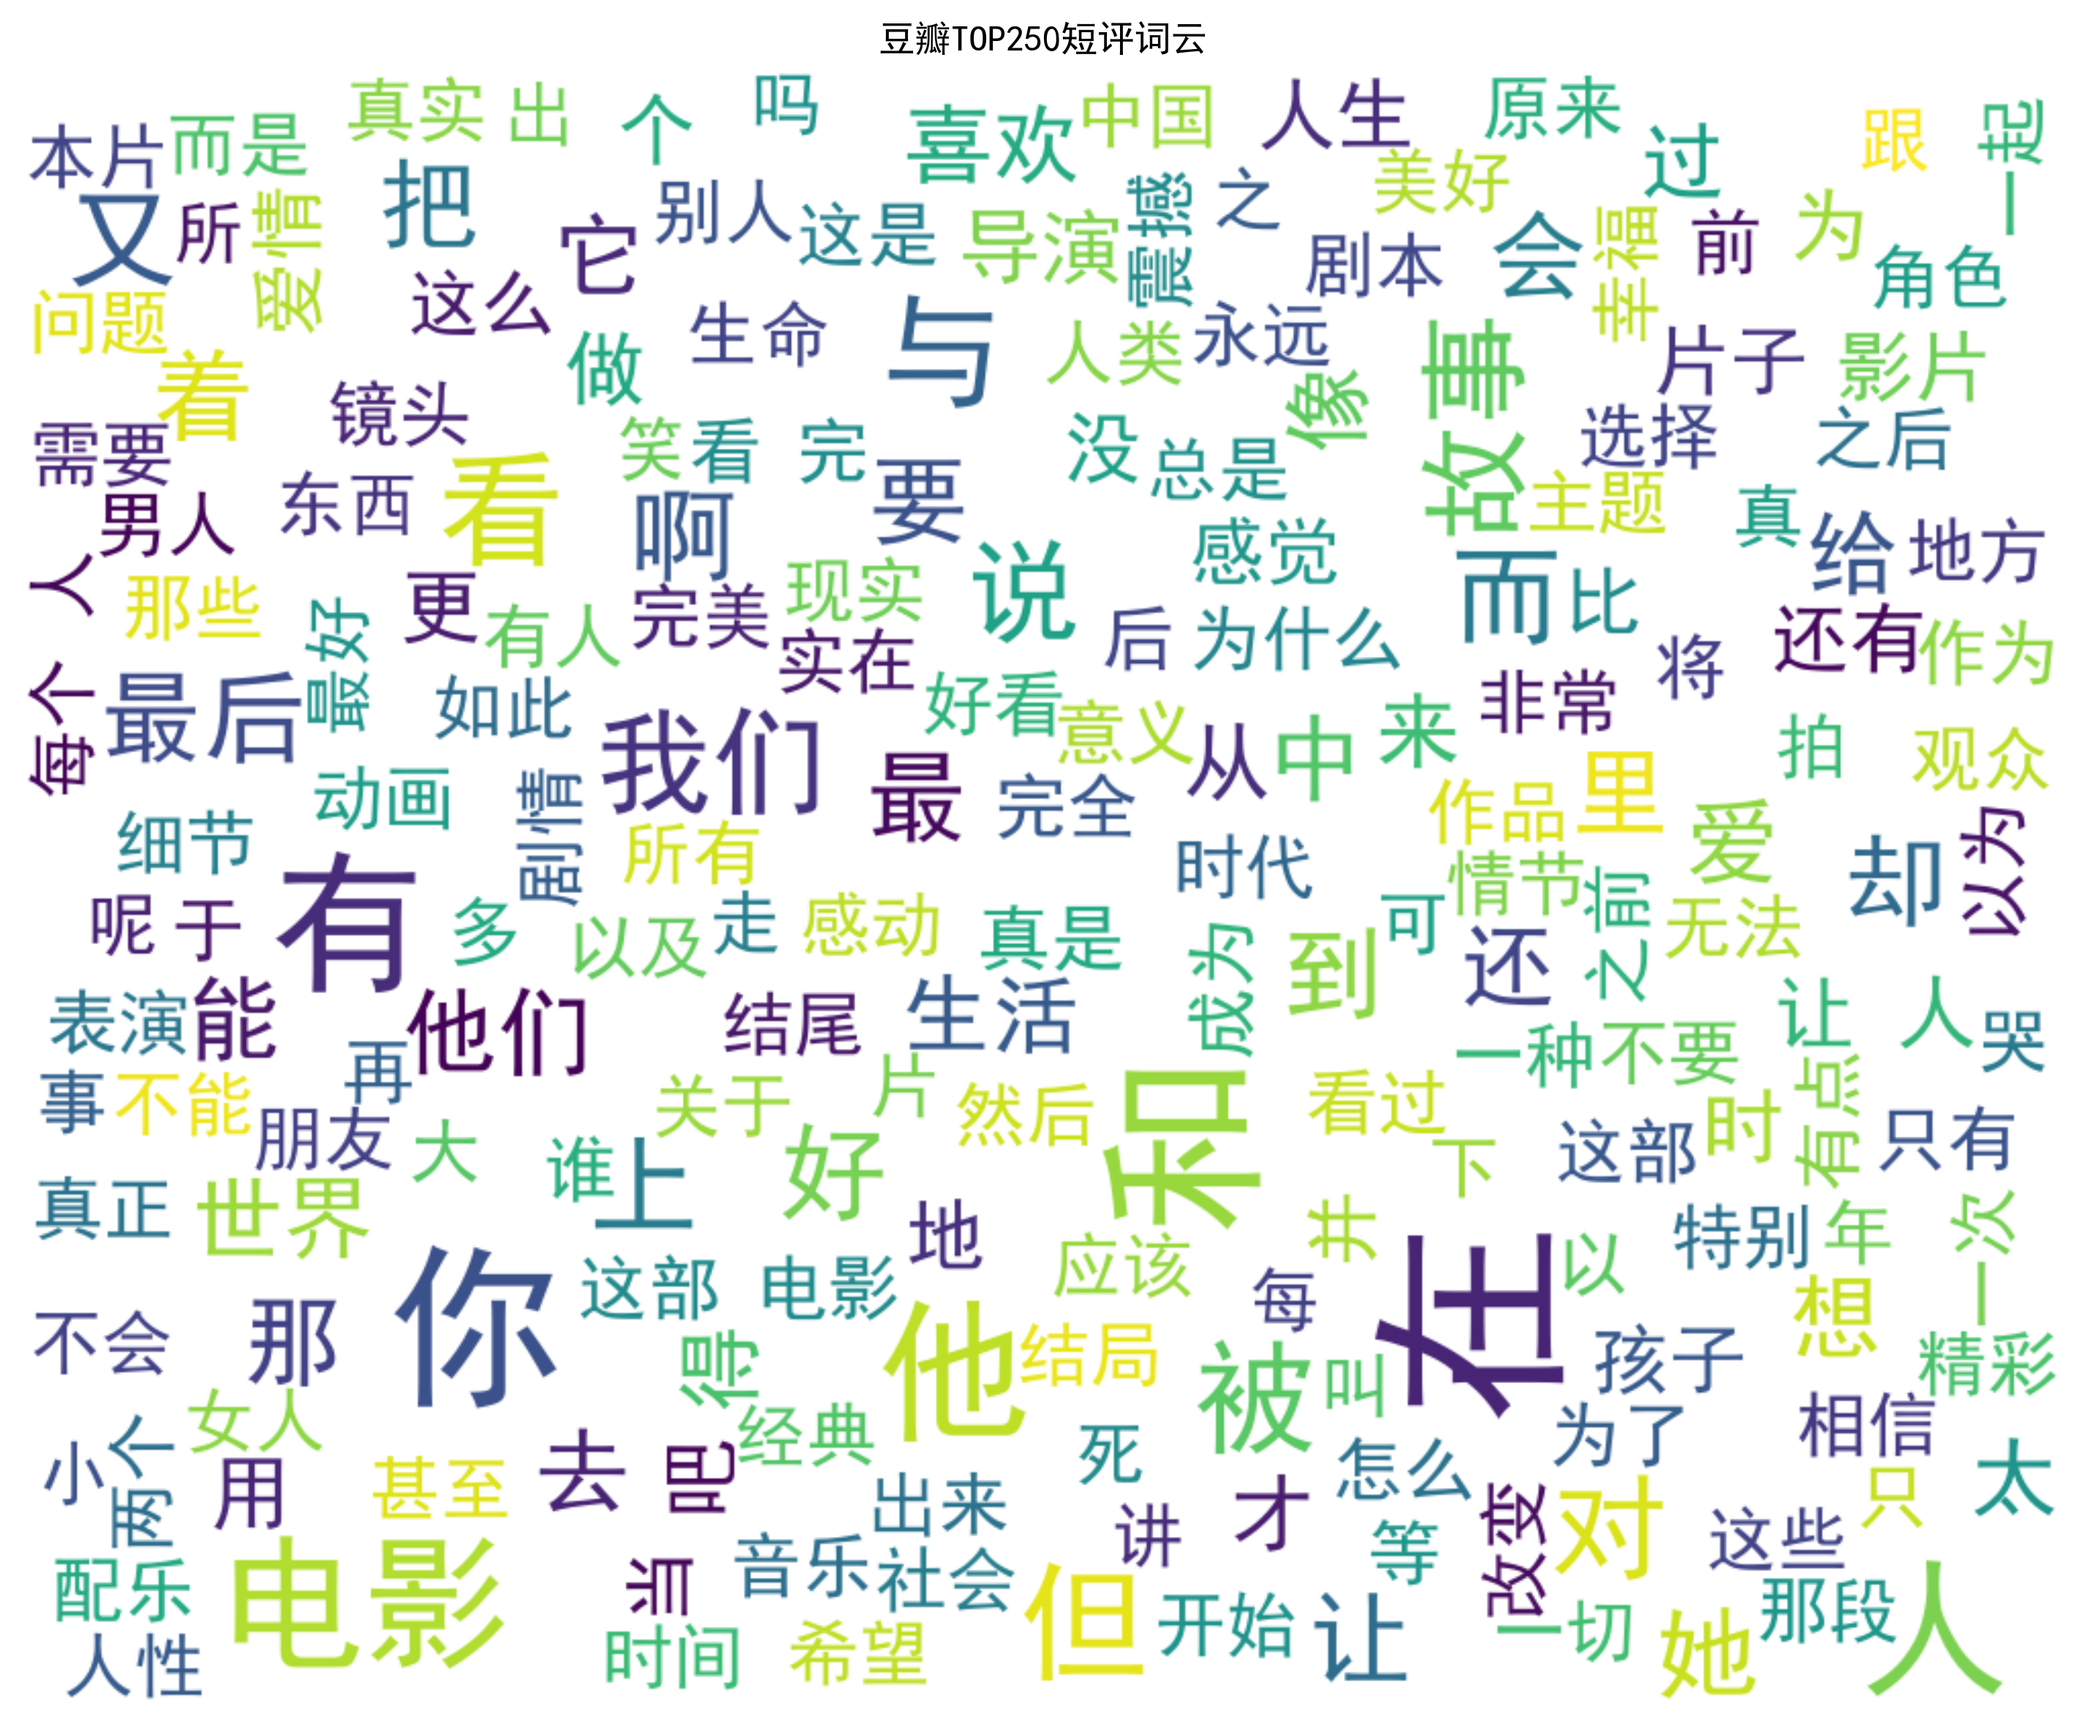
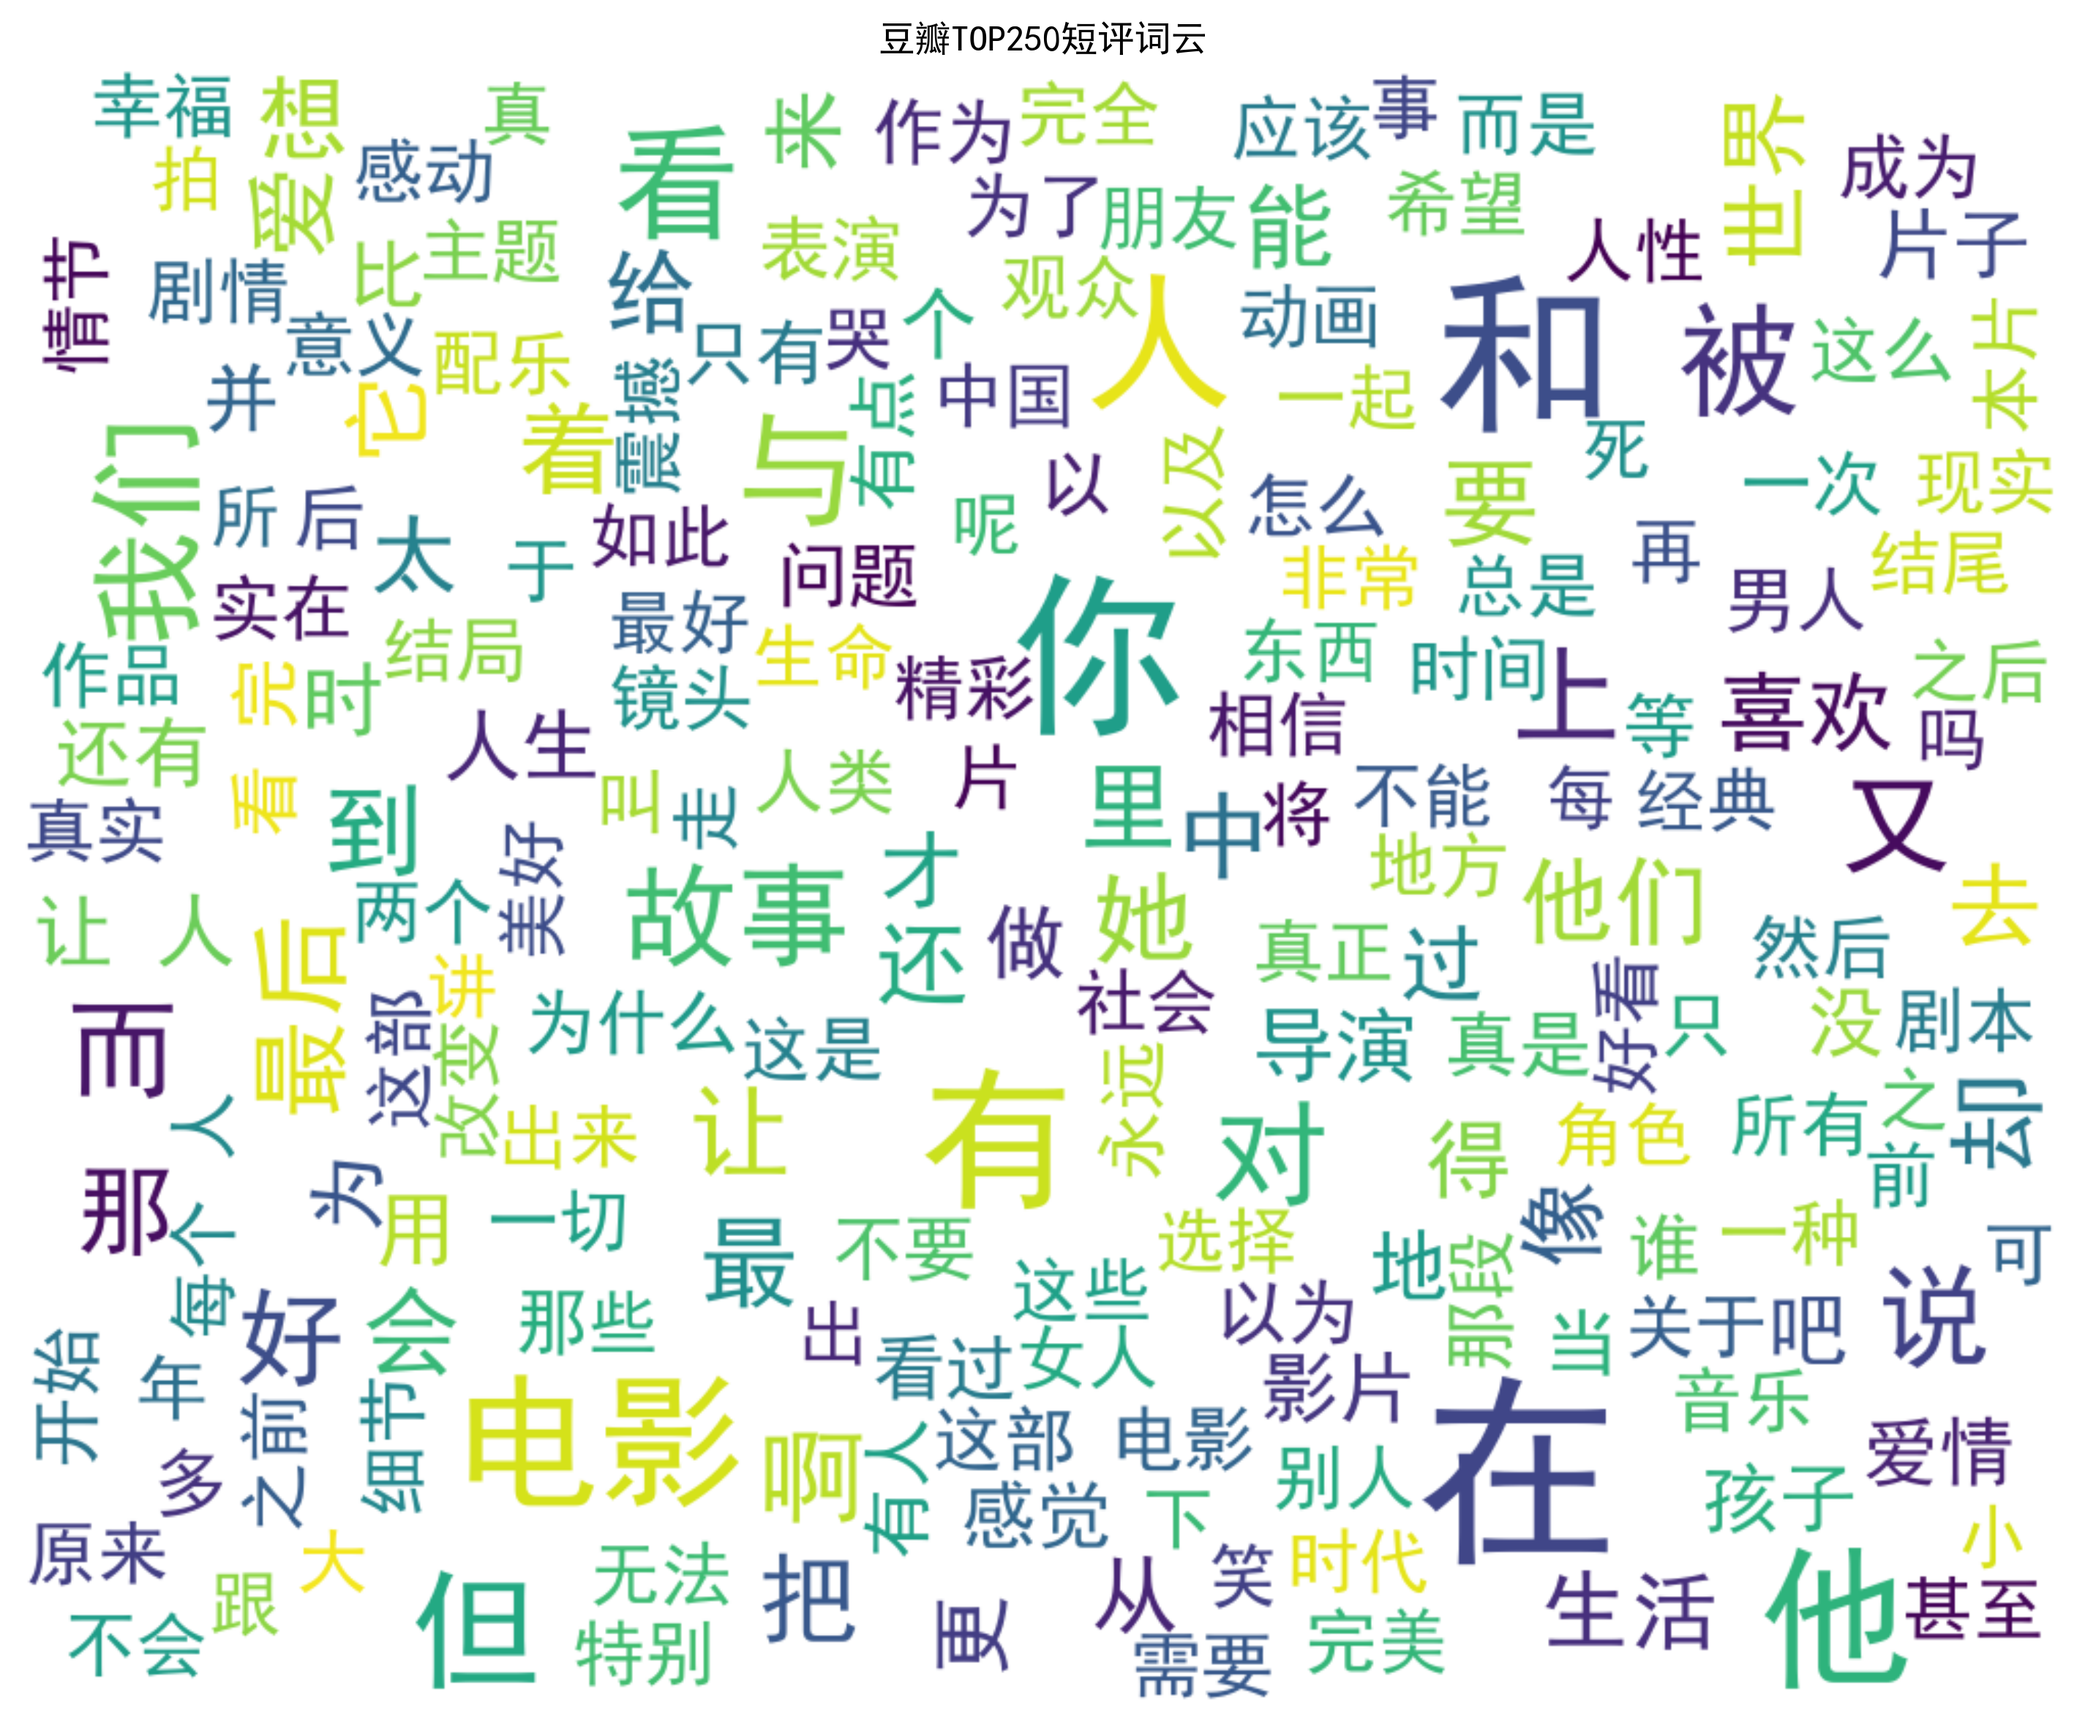
完成任务四：加分项短评情感分析

diff --git a/data_analysis.py b/data_analysis.py
@@ -156,3 +156,75 @@ plt.savefig("comment_wordcloud.png", dpi=300, bbox_inches='tight')
 plt.show()
 
 print("\n✅ 数据分析与可视化全部完成！")
+
+
+# --------------------- 加分项：短评情感倾向分析 ---------------------
+from snownlp import SnowNLP
+import jieba
+import pandas as pd
+import matplotlib.pyplot as plt
+import pymysql
+
+# 1. 配置中文显示
+plt.rcParams['font.sans-serif'] = ['SimHei']
+plt.rcParams['axes.unicode_minus'] = False
+
+# 2. 从数据库读取短评数据
+conn = pymysql.connect(
+    host='localhost',
+    user='root',
+    password='2006317',
+    database='douban_movie',
+    charset='utf8mb4'
+)
+df_comments = pd.read_sql("SELECT * FROM comments", conn)
+conn.close()
+
+# 3. 数据清洗：去除空评论和过短评论
+df_comments = df_comments.dropna(subset=['content'])
+df_comments = df_comments[df_comments['content'].str.len() > 2]
+print(f"✅ 有效短评数量：{len(df_comments)} 条")
+
+# 4. 情感分析
+def analyze_sentiment(text):
+    s = SnowNLP(text)
+    return s.sentiments
+
+df_comments['sentiment_score'] = df_comments['content'].apply(analyze_sentiment)
+
+# 5. 按分数分类
+def sentiment_category(score):
+    if score > 0.6:
+        return '正面'
+    elif score < 0.4:
+        return '负面'
+    else:
+        return '中性'
+
+df_comments['sentiment_category'] = df_comments['sentiment_score'].apply(sentiment_category)
+
+# 6. 统计结果
+sentiment_count = df_comments['sentiment_category'].value_counts()
+sentiment_ratio = df_comments['sentiment_category'].value_counts(normalize=True) * 100
+
+print("\n===== 短评情感倾向统计 =====")
+print(sentiment_count)
+print("\n各类情感占比：")
+print(sentiment_ratio.round(2))
+
+# 7. 可视化：情感分布饼图
+plt.figure(figsize=(8, 8))
+colors = ['#66b3ff', '#ff9999', '#99ff99']
+plt.pie(
+    sentiment_count,
+    labels=sentiment_count.index,
+    autopct='%1.1f%%',
+    startangle=90,
+    colors=colors,
+    textprops={'fontsize': 12}
+)
+plt.title("豆瓣TOP250电影短评情感倾向分布", fontsize=14)
+plt.savefig("sentiment_pie.png", dpi=300, bbox_inches='tight')
+plt.show()
+
+print("\n✅ 短评情感分析完成！")
